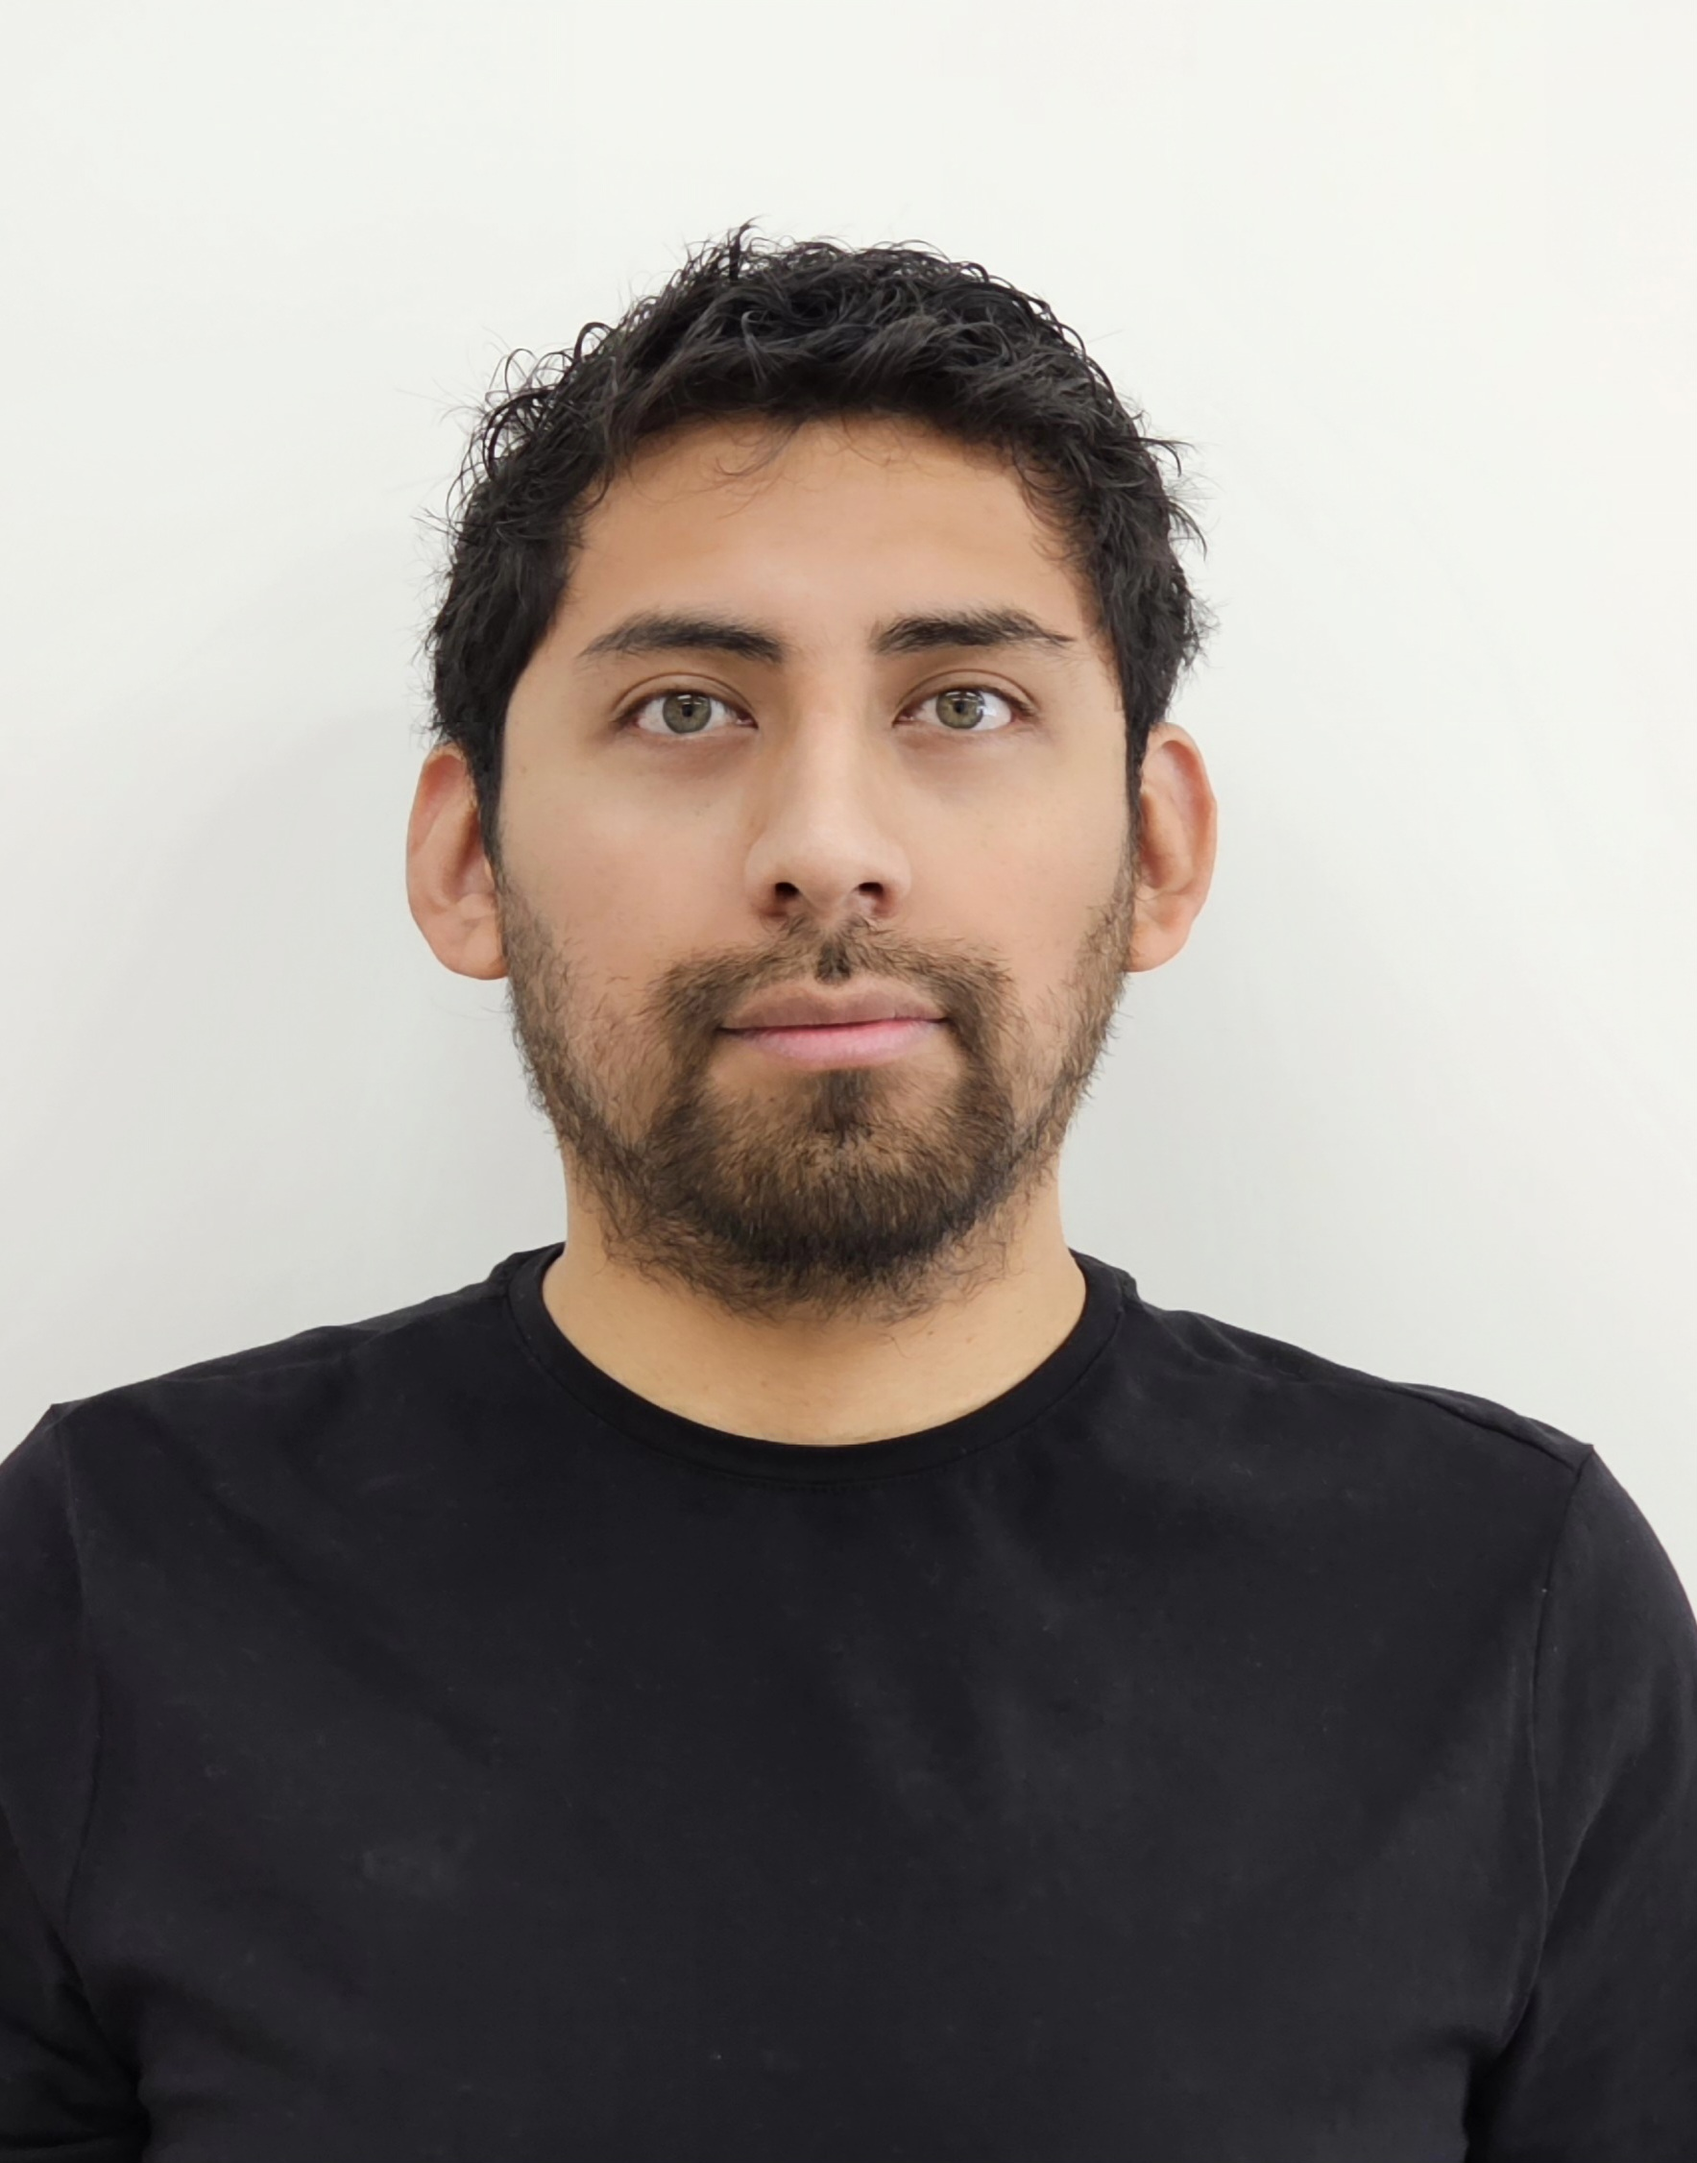
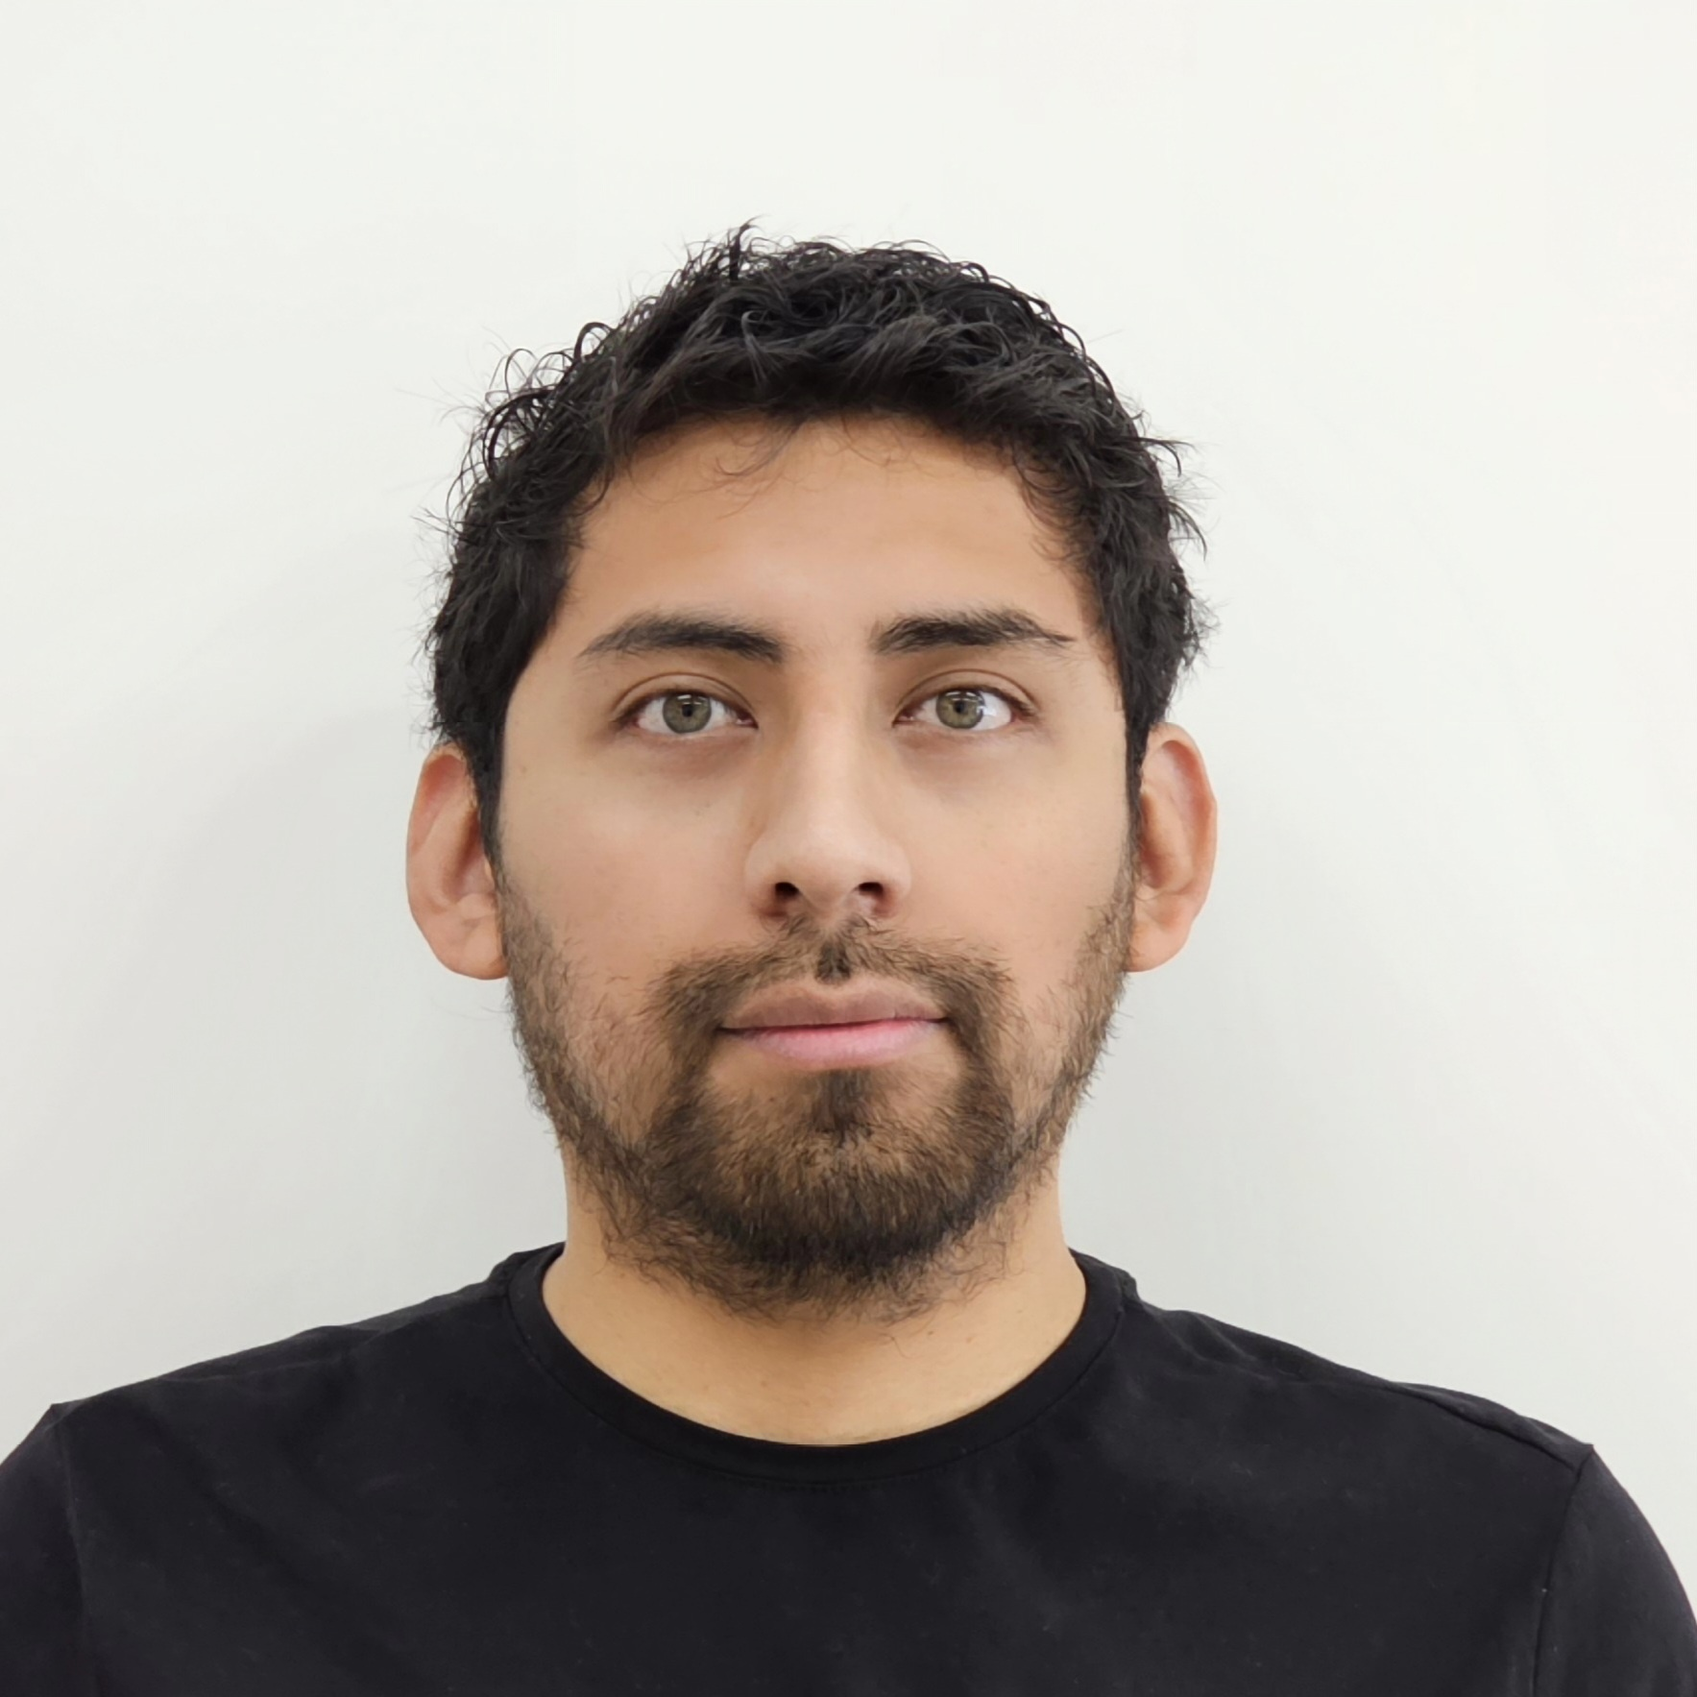
Correccion fotos de platicas, eliminar actividades antiguas y ajustar organizadores

diff --git a/_includes/about.html b/_includes/about.html
@@ -173,7 +173,7 @@
 
           <li>
             <div class="timeline-image">
-              <img class="img-circle img-responsive" src="img/aws-techday-01.jpeg" alt="AWS User Group Sonora">
+              <img class="img-circle img-responsive" src="img/about/aws.png" alt="AWS User Group Sonora">
             </div>
             <div class="timeline-panel">
               <div class="timeline-heading">

diff --git a/_includes/css/agency.css b/_includes/css/agency.css
@@ -499,6 +499,15 @@ section h3.section-subheading {
     text-align: center;
     color: #fff;
     background-color: #{{ site.data.template.color.primary }};
+    overflow: hidden;
+}
+
+.timeline>li .timeline-image img {
+    width: 100%;
+    height: 100%;
+    object-fit: cover;
+    object-position: center;
+    border-radius: 50%;
 }
 
 .timeline>li .timeline-image h4 {
